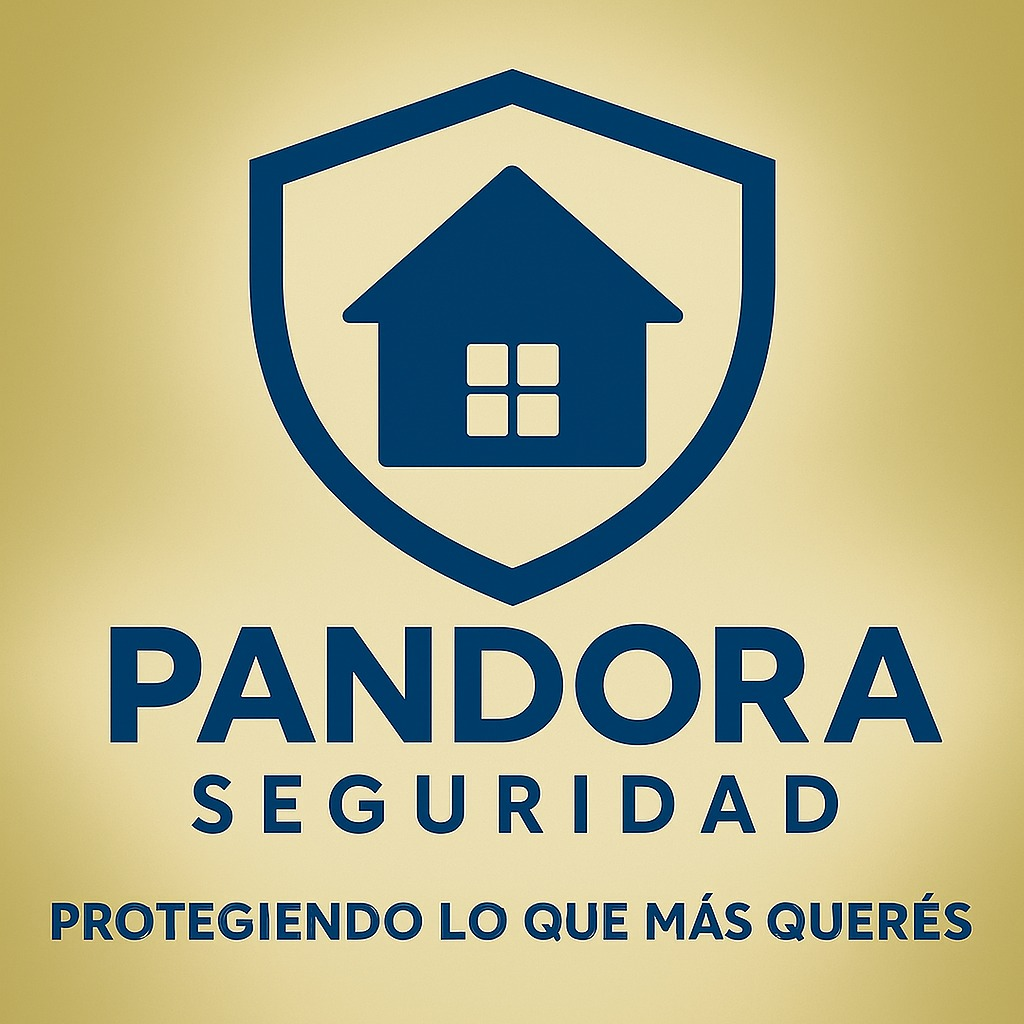
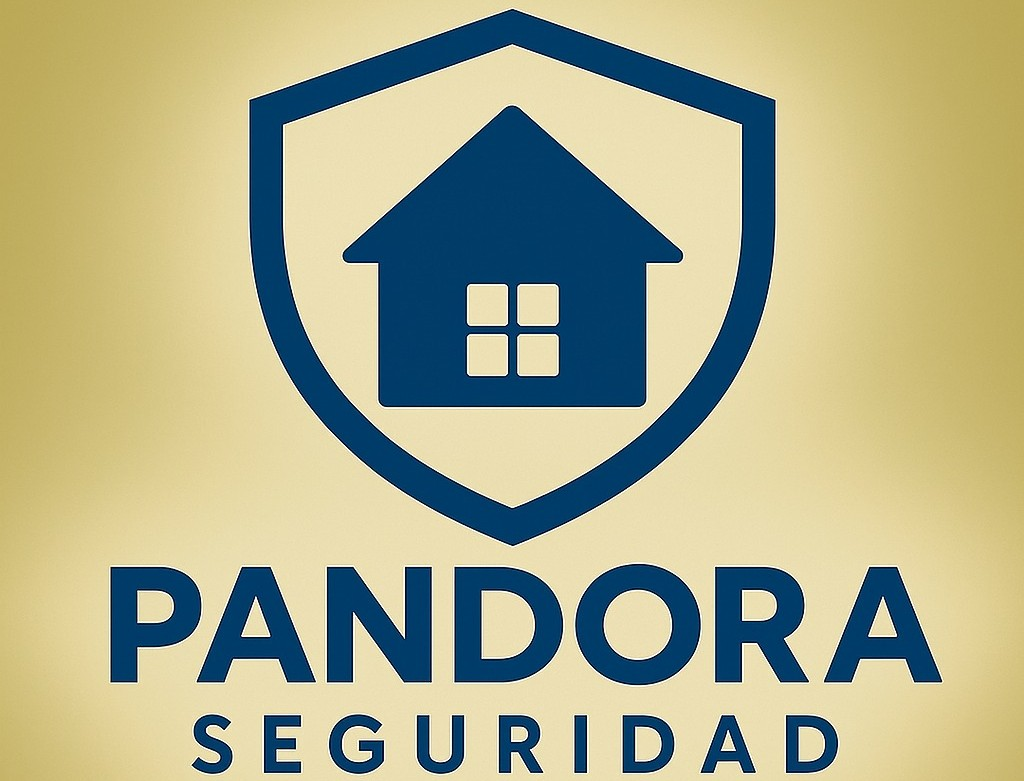
Full-screen hero background, update gea and pandora images

diff --git a/index.html b/index.html
@@ -77,17 +77,32 @@
     .hero-bg {
       position: absolute;
       inset: 0;
+      width: 100%;
+      height: 100%;
       background-image: url('foto-portada.jpg');
       background-size: cover;
-      background-position: center;
-      opacity: 0.45;
+      background-position: center center;
+      background-repeat: no-repeat;
+      opacity: 0.55;
       z-index: 0;
     }
 
     .hero-bg-gradient {
       position: absolute;
       inset: 0;
-      background: linear-gradient(to right, rgba(10,10,10,0.85) 35%, rgba(10,10,10,0.3) 100%);
+      width: 100%;
+      height: 100%;
+      background: linear-gradient(
+        to bottom,
+        rgba(10,10,10,0.4) 0%,
+        rgba(10,10,10,0.6) 60%,
+        rgba(10,10,10,0.95) 100%
+      ), linear-gradient(
+        to right,
+        rgba(10,10,10,0.7) 0%,
+        rgba(10,10,10,0.1) 60%,
+        rgba(10,10,10,0.1) 100%
+      );
       z-index: 1;
     }
 